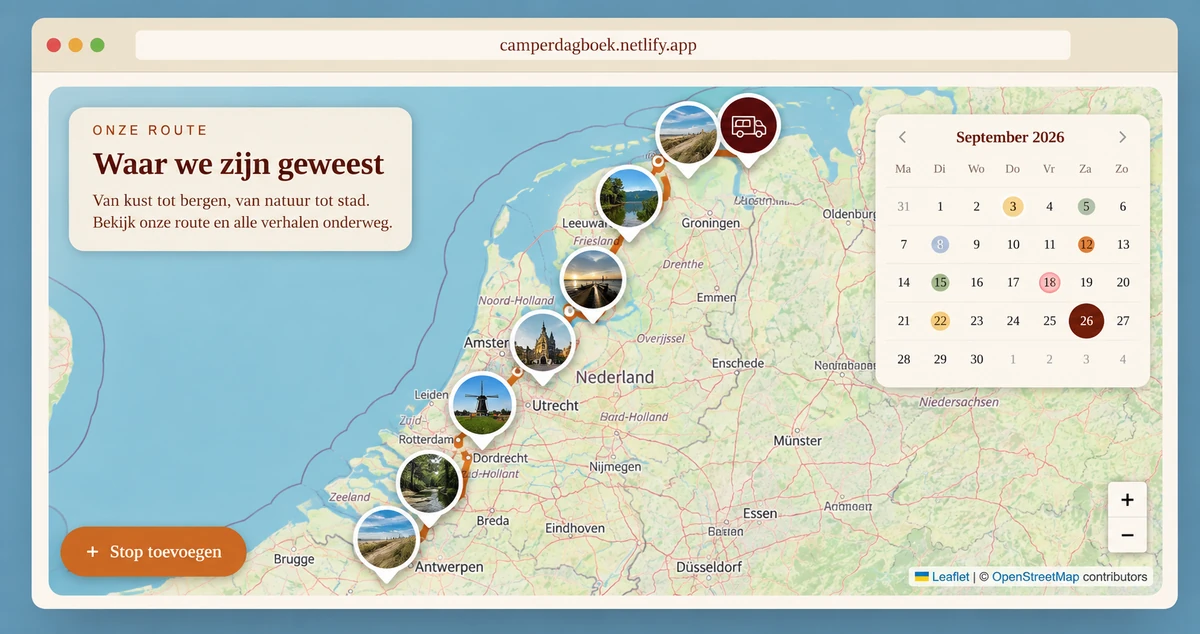
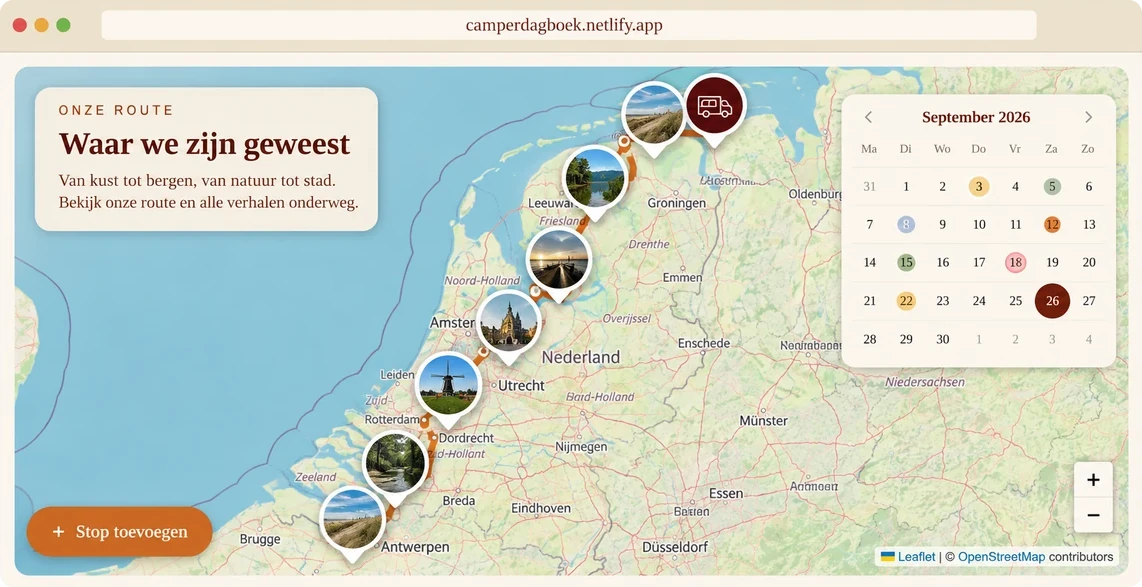
Add files via upload

diff --git a/index.html b/index.html
@@ -4,7 +4,7 @@
 <meta charset="utf-8">
 <meta name="viewport" content="width=device-width, initial-scale=1, viewport-fit=cover">
 <title>AM productions</title>
-<meta name="description" content="Portfolio van Anne Linde: van complex digitaal vraagstuk naar concreet concept, prototype en werkend product.">
+<meta name="description" content="Portfolio van Anne Mirthe Lindeboom (AM productions): van complex digitaal vraagstuk naar concreet concept, prototype en werkend product.">
 <link rel="preconnect" href="https://fonts.googleapis.com">
 <link rel="preconnect" href="https://fonts.gstatic.com" crossorigin>
 <link rel="stylesheet" href="https://fonts.googleapis.com/css2?family=Alice&family=Imbue:opsz,wght@10..100,300..700&display=swap">
@@ -18,6 +18,7 @@
     --paper:#FCF6ED;
     --paper-2:#F9EDD5;
     --ink:#690B0B;
+    --navy:#0F2B3C;
     --frame:#EFE6D2;
     --display:"Imbue","Didot","Bodoni 72",Georgia,serif;
     --text:"Alice",Georgia,"Times New Roman",serif;
@@ -44,8 +45,8 @@
     --label:var(--blue-light);--rule:rgba(241,233,210,.22);--chip:rgba(241,233,210,.4);
   }
   .band--blue{
-    background:var(--blue);color:var(--wine-deep);
-    --label:var(--wine-deep);--rule:rgba(74,2,4,.24);--chip:rgba(74,2,4,.38);
+    background:var(--blue);color:var(--navy);
+    --label:var(--navy);--rule:rgba(15,43,60,.25);--chip:rgba(15,43,60,.4);
   }
 
   .eyebrow{
@@ -173,10 +174,6 @@
   .facts--grid > .end{padding-bottom:0}
 
   /* Over mij */
-  .band--paper{
-    background:var(--paper);color:var(--ink);
-    --label:var(--wine);--rule:rgba(105,11,11,.2);--chip:rgba(105,11,11,.35);
-  }
   .about{
     display:grid;grid-template-columns:minmax(0,4fr) minmax(0,8fr);
     column-gap:clamp(2rem,5.5vw,5.5rem);row-gap:1.2rem;align-items:start;
@@ -188,16 +185,17 @@
   .proof b{font-family:var(--display);font-weight:500;font-variation-settings:"opsz" 60;font-size:2.3rem;line-height:1;font-variant-numeric:tabular-nums}
 
   .gallery{display:grid;gap:clamp(1rem,2.2vw,1.6rem);margin-top:clamp(2.5rem,5vw,4rem)}
-  .gallery-row{display:grid;grid-template-columns:2.94fr 1.81fr;gap:clamp(1rem,2.2vw,1.6rem)}
+  .gallery-row{display:grid;grid-template-columns:2.857fr 1.812fr;gap:clamp(1rem,2.2vw,1.6rem)}
   .shot{margin:0}
   .shot > img{
     display:block;width:100%;height:auto;border-radius:10px;
     box-shadow:0 26px 50px -30px rgba(30,0,0,.7),0 0 0 1px rgba(74,2,4,.14);
   }
   .shot figcaption{margin-top:.6rem;font-size:.92rem}
+  .shot > img.no-frame{border-radius:13px;box-shadow:0 30px 60px -30px rgba(20,0,0,.75)}
 
   /* ---------- Slot ---------- */
-  .closing{padding-block:clamp(3.5rem,7vw,5.5rem)}
+  .closing{padding-block:clamp(3.5rem,7vw,5.5rem);background:var(--paper-2);color:var(--ink)}
   .closing p.big{
     margin:0;max-width:12em;
     font-family:var(--display);font-weight:500;font-variation-settings:"opsz" 90;
@@ -236,7 +234,7 @@
 <header class="hero band--wine" id="top">
   <div class="wrap hero-grid">
     <div>
-      <p class="eyebrow">Portfolio · Digitale innovatie &amp; product</p>
+      <p class="eyebrow">Portfolio van Anne Mirthe Lindeboom</p>
       <h1><span>AM</span> productions</h1>
       <p class="tagline">Tech × Creativity × Product</p>
       <p class="intro">Ik werk graag aan digitale vraagstukken waarvan de oplossing nog niet vaststaat. Ik breng structuur aan, vertaal ideeën naar een scherp concept en zorg dat er iets ontstaat dat je kunt testen, gebruiken en verder ontwikkelen. In mijn werk doe ik dat binnen complexe digitale trajecten; in mijn eigen projecten gebruik ik AI en nieuwe technologie om sneller te onderzoeken, bouwen en itereren.</p>
@@ -256,7 +254,7 @@
 <main>
 
   <!-- Over mij -->
-  <section class="band band--paper" id="over-mij" aria-labelledby="t-over">
+  <section class="band band--blue" id="over-mij" aria-labelledby="t-over">
     <div class="wrap about">
       <div>
         <p class="eyebrow">Over mij</p>
@@ -274,7 +272,7 @@
   </section>
 
   <!-- De Ochtendbode -->
-  <section class="band band--blue" id="ochtendbode" aria-labelledby="t-ochtendbode">
+  <section class="band band--wine" id="ochtendbode" aria-labelledby="t-ochtendbode">
     <div class="wrap project">
       <div class="p-head">
         <p class="eyebrow">Ochtendkrant · elke nacht automatisch</p>
@@ -301,7 +299,7 @@
   </section>
 
   <!-- Live Wijnquiz -->
-  <section class="band band--wine" id="wijnquiz" aria-labelledby="t-wijnquiz">
+  <section class="band band--blue" id="wijnquiz" aria-labelledby="t-wijnquiz">
     <div class="wrap project project--flip">
       <div class="p-head">
         <p class="eyebrow">Groepsspel · live op je telefoon</p>
@@ -323,7 +321,7 @@
   </section>
 
   <!-- Camperdagboek -->
-  <section class="band band--blue" id="camperdagboek" aria-labelledby="t-camper">
+  <section class="band band--wine" id="camperdagboek" aria-labelledby="t-camper">
     <div class="wrap">
       <div class="wide-top">
         <div>
@@ -346,12 +344,12 @@
 
       <div class="gallery">
         <figure class="shot">
-          <img src="beelden/camper-route-calendar.webp" width="1200" height="634" alt="Privacyvriendelijke weergave van het Camperdagboek met routekaart, aangepaste reismarkers en familie-agenda.">
+          <img class="no-frame" src="beelden/camper-route-calendar.webp" width="1142" height="587" alt="Privacyvriendelijke weergave van het Camperdagboek met routekaart, aangepaste reismarkers en familie-agenda.">
           <figcaption>Route en familie-agenda</figcaption>
         </figure>
         <div class="gallery-row">
           <figure class="shot">
-            <img src="beelden/camper-verhaal-sanitized.svg" width="1600" height="560" alt="Privacyvriendelijke mockup van het Camperdagboek met generieke reisverhalen en fictieve statistieken.">
+            <img src="beelden/camper-verhaal-sanitized.svg" width="1600" height="560" alt="Privacyvriendelijke mockup van het Camperdagboek met generieke reisverhalen en de echte totalen: 35 stops onderweg en 93 geboekte nachten.">
             <figcaption>Verhalen van onderweg</figcaption>
           </figure>
           <figure class="shot">
@@ -364,7 +362,7 @@
   </section>
 
   <!-- E-paper Spotify -->
-  <section class="band band--wine" id="epaper" aria-labelledby="t-epaper">
+  <section class="band band--blue" id="epaper" aria-labelledby="t-epaper">
     <div class="wrap project">
       <div class="p-head">
         <p class="eyebrow">Hardware · e-paper</p>
@@ -373,12 +371,12 @@
       </div>
       <figure class="p-vis print">
         <img src="beelden/epaper.jpg" width="420" height="306" alt="Een e-paper-schermpje in een licht stenen lijstje op tafel, met hoesafbeelding, titel Good Days van SZA en afspeelknoppen.">
-        <figcaption>Wat er nu speelt, zonder scherm dat om aandacht vraagt.</figcaption>
+        <figcaption>Impressie in het lijstje: wat er nu speelt, zonder scherm dat om aandacht vraagt.</figcaption>
       </figure>
       <dl class="p-body facts">
         <div><dt>Vraagstuk</dt><dd>Streaming maakt muziek praktisch onzichtbaar. Ik wilde de visuele aanwezigheid van een album terugbrengen, maar zonder een fel display aan de muur.</dd></div>
         <div><dt>Productkeuze</dt><dd>Een e-paper object dat actuele trackinformatie en artwork toont. Het scherm verbruikt weinig energie, geeft geen licht en past daardoor beter in een interieur dan een traditioneel display.</dd></div>
-        <div><dt>Bouw &amp; iteratie</dt><dd>Ik koppelde ESP32, Spotify API en e-paper en werkte iteratief aan authenticatie, refresh-logica, partial refresh en informatiehiërarchie. Daarna vertaalde ik het technische prototype naar een fysiek object in een fotolijst.</dd></div>
+        <div><dt>Bouw &amp; iteratie</dt><dd>Ik koppelde ESP32, Spotify API en e-paper en werkte iteratief aan authenticatie, refresh-logica, partial refresh en informatiehiërarchie. Het draait inmiddels als fysiek e-paper-scherm; als laatste stap krijgt het een plek in een fotolijst.</dd></div>
         <div><dt>Resultaat</dt><dd>Een werkend physical-digital prototype waarin software, hardware en vormgeving als één product samenkomen.<ul class="chips" style="margin-top:.6rem"><li>Prototyping</li><li>API-integratie</li><li>Information design</li><li>Hardware × software</li></ul></dd></div>
         <div><dt>Tech</dt><dd>ESP32 · Spotify API · e-paper · Arduino/C++ · AI-assisted development</dd></div>
       </dl>
@@ -391,7 +389,7 @@
   <div class="wrap">
     <p class="big">Tech × Creativity × Product</p>
     <div class="closing-row">
-      <span>AM productions · 2026</span>
+      <span>AM productions · Anne Mirthe Lindeboom · 2026</span>
       <a href="#top">Terug naar boven ↑</a>
     </div>
   </div>
